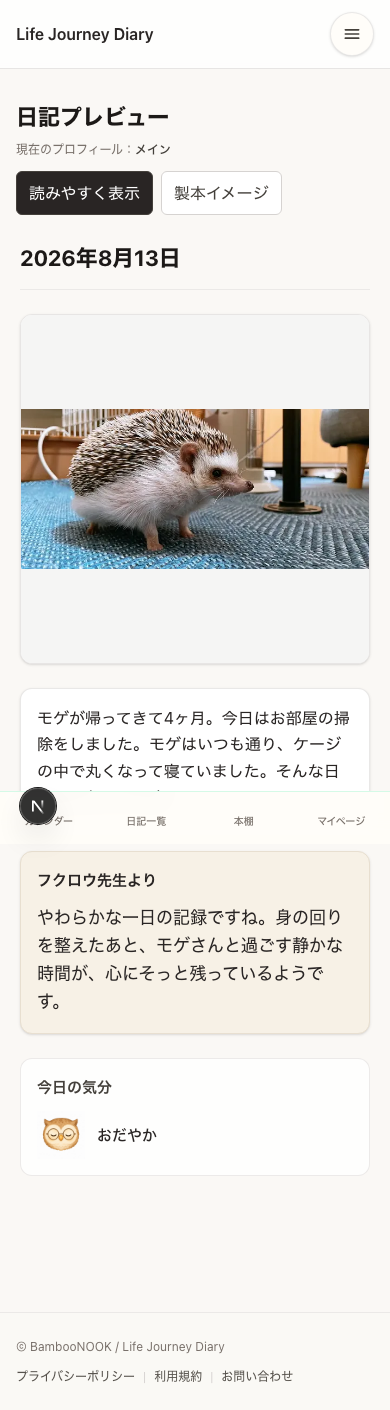
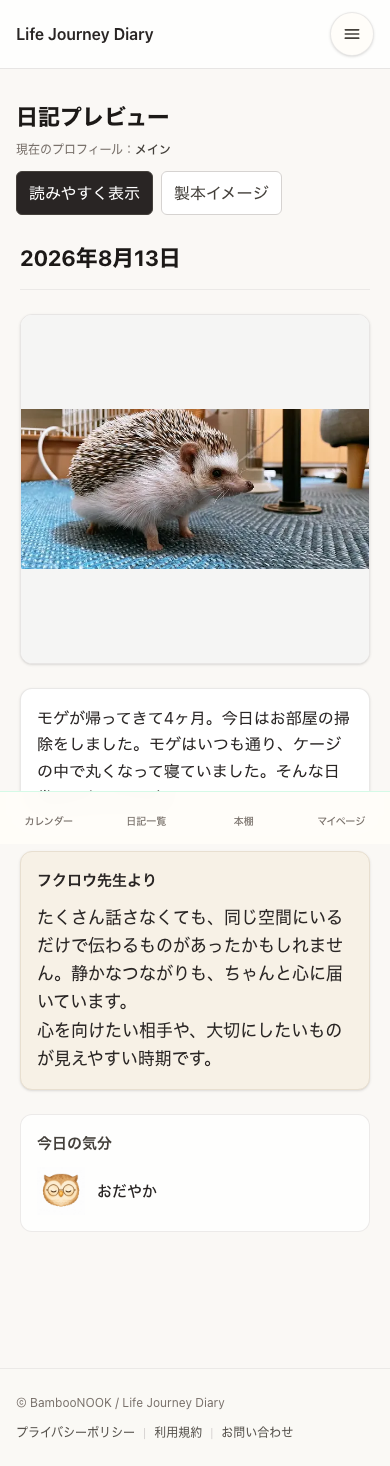
Polish home product mock layout and anonymize preview copy
Use generic owl comment in journal preview mock, remove personal names from bookshelf mock, and split PC layout into three steps plus a centered fourth row with aligned phone frames.

diff --git a/src/components/home/HomeProductMockSection.tsx b/src/components/home/HomeProductMockSection.tsx
@@ -10,6 +10,9 @@ const PHONE_MOCK_OUTER_CLASS =
 const PHONE_MOCK_SCREEN_CLASS =
   "relative aspect-[9/19.5] overflow-hidden rounded-[1.1rem] bg-white";
 
+const PRIMARY_STEPS = HOME_PRODUCT_MOCK_STEPS.slice(0, 3);
+const FINAL_STEP = HOME_PRODUCT_MOCK_STEPS[3]!;
+
 function PhoneMockScrollHint() {
   return (
     <p className="mb-1.5 text-center text-[10px] leading-4 text-stone-500/80">
@@ -41,9 +44,14 @@ function PhoneMockScreenshot({
   );
 }
 
-function PhoneMockFrame({ step }: { step: HomeProductMockStep }) {
+function PhoneMockFrame({
+  step,
+  desktopWidth = "min(12rem, 390px)",
+}: {
+  step: HomeProductMockStep;
+  desktopWidth?: string;
+}) {
   const mockWidthMobile = `min(72vw, ${step.imageWidth}px)`;
-  const mockWidthDesktop = `min(11rem, ${step.imageWidth}px)`;
 
   return (
     <div className="w-full">
@@ -67,7 +75,7 @@ function PhoneMockFrame({ step }: { step: HomeProductMockStep }) {
 
       <div
         className="mx-auto hidden shrink-0 md:block"
-        style={{ width: mockWidthDesktop }}
+        style={{ width: desktopWidth }}
       >
         <PhoneMockScrollHint />
         <div className={PHONE_MOCK_OUTER_CLASS}>
@@ -86,13 +94,19 @@ function PhoneMockFrame({ step }: { step: HomeProductMockStep }) {
   );
 }
 
-function MockImageFrame({ step }: { step: HomeProductMockStep }) {
+function MockImageFrame({
+  step,
+  desktopPhoneWidth,
+}: {
+  step: HomeProductMockStep;
+  desktopPhoneWidth?: string;
+}) {
   if (step.frame === "phone") {
-    return <PhoneMockFrame step={step} />;
+    return <PhoneMockFrame step={step} desktopWidth={desktopPhoneWidth} />;
   }
 
   return (
-    <div className="mx-auto w-full min-w-[9rem] max-w-[9rem] shrink-0 sm:max-w-[10rem]">
+    <div className="mx-auto w-full min-w-[9rem] max-w-[9rem] shrink-0 sm:max-w-[10rem] md:min-w-[10rem] md:max-w-[11rem]">
       <div className="overflow-hidden rounded-lg border border-stone-200/55 bg-[#fffdf9] p-1.5 shadow-[0_2px_10px_rgba(107,90,74,0.08)]">
         <img
           src={step.imageSrc}
@@ -108,18 +122,32 @@ function MockImageFrame({ step }: { step: HomeProductMockStep }) {
   );
 }
 
-function MockStepCard({ step }: { step: HomeProductMockStep }) {
+function MockStepCard({
+  step,
+  alignMockToBottom = false,
+  desktopPhoneWidth,
+}: {
+  step: HomeProductMockStep;
+  alignMockToBottom?: boolean;
+  desktopPhoneWidth?: string;
+}) {
   return (
-    <article className="flex min-w-0 flex-col">
+    <article className={alignMockToBottom ? "flex h-full min-w-0 flex-col" : "flex min-w-0 flex-col"}>
       <h3 className="text-[0.9375rem] font-semibold leading-snug text-emerald-800">
         {step.stepLabel} {step.title}
       </h3>
       <p className="mt-1.5 text-[13px] leading-5 text-stone-600 sm:text-sm sm:leading-6">
         {step.description}
       </p>
-      <div className="mt-2.5 flex w-full flex-1 justify-center sm:mt-3">
+      <div
+        className={[
+          alignMockToBottom
+            ? "mt-2.5 flex flex-1 items-end justify-center sm:mt-3"
+            : "mt-2.5 flex w-full justify-center sm:mt-3",
+        ].join(" ")}
+      >
         <div className={step.frame === "phone" ? "lj-reading-exempt shrink-0" : "shrink-0"}>
-          <MockImageFrame step={step} />
+          <MockImageFrame step={step} desktopPhoneWidth={desktopPhoneWidth} />
         </div>
       </div>
     </article>
@@ -143,10 +171,26 @@ export function HomeProductMockSection() {
       </div>
 
       <div className="mx-auto mt-5 max-w-5xl sm:mt-6">
-        <div className="grid grid-cols-1 gap-6 md:grid-cols-2 md:gap-x-4 md:gap-y-7 lg:grid-cols-4 lg:gap-3">
+        <div className="grid grid-cols-1 gap-6 md:hidden">
           {HOME_PRODUCT_MOCK_STEPS.map((step) => (
             <MockStepCard key={step.stepLabel} step={step} />
           ))}
+        </div>
+
+        <div className="hidden md:block">
+          <div className="grid grid-cols-3 gap-5 lg:gap-6">
+            {PRIMARY_STEPS.map((step) => (
+              <div key={step.stepLabel} className="min-w-0 max-w-[15rem] justify-self-center lg:max-w-[16rem]">
+                <MockStepCard step={step} alignMockToBottom desktopPhoneWidth="min(12.5rem, 390px)" />
+              </div>
+            ))}
+          </div>
+
+          <div className="mt-8 border-t border-stone-200/70 pt-8">
+            <div className="mx-auto max-w-sm">
+              <MockStepCard step={FINAL_STEP} />
+            </div>
+          </div>
         </div>
       </div>
     </section>

diff --git a/src/components/home/HomeMockBookshelfCapture.tsx b/src/components/home/HomeMockBookshelfCapture.tsx
@@ -31,7 +31,7 @@ export function HomeMockBookshelfCapture() {
         <BookshelfBookCard
           id="home-mock-report"
           kind="report"
-          title="鑑定書（Risa Kimura）"
+          title="鑑定書"
           href="/orders/demo"
           tone="amber"
           coverImageSrc="/images/kantei-cover.png?v=1"
@@ -43,7 +43,7 @@ export function HomeMockBookshelfCapture() {
           bindingHref="/orders/demo/book-binding"
           bindingLabel="製本版を注文する"
           details={[
-            { label: "お名前", value: "木村 理沙" },
+            { label: "お名前", value: "あなた" },
             { label: "作成日", value: "2026/4/21" },
             { label: "PDF形式", value: "目次リンクつき軽量PDF（ブラウザ表示対応）" },
             { label: "ダウンロード", value: "ダウンロード残り 3 / 3 回" },

diff --git a/src/components/home/HomeMockJournalPreviewCapture.tsx b/src/components/home/HomeMockJournalPreviewCapture.tsx
@@ -6,7 +6,7 @@ const DEMO_CREATED_AT = "2026-08-13T09:00:00.000Z";
 const DEMO_CONTENT =
   "モゲが帰ってきて4ヶ月。今日はお部屋の掃除をしました。モゲはいつも通り、ケージの中で丸くなって寝ていました。そんな日常のひとコマです。";
 const DEMO_OWL_COMMENT =
-  "やわらかな一日の記録ですね。身の回りを整えたあと、モゲさんと過ごす静かな時間が、心にそっと残っているようです。";
+  "たくさん話さなくても、同じ空間にいるだけで伝わるものがあったかもしれません。静かなつながりも、ちゃんと心に届いています。\n心を向けたい相手や、大切にしたいものが見えやすい時期です。";
 const DEMO_PHOTO_SRC = "/images/home-mock/demo-journal-photo.png";
 
 export function HomeMockJournalPreviewCapture() {

diff --git a/src/lib/home/homeProductMockAssets.ts b/src/lib/home/homeProductMockAssets.ts
@@ -50,7 +50,7 @@ export const HOME_PRODUCT_MOCK_STEPS: HomeProductMockStep[] = [
     imageSrc: HOME_PRODUCT_MOCK_IMAGES.journalPreview,
     imageAlt: "日記プレビュー画面",
     imageWidth: 390,
-    imageHeight: 1410,
+    imageHeight: 1466,
     frame: "phone",
   },
   {
